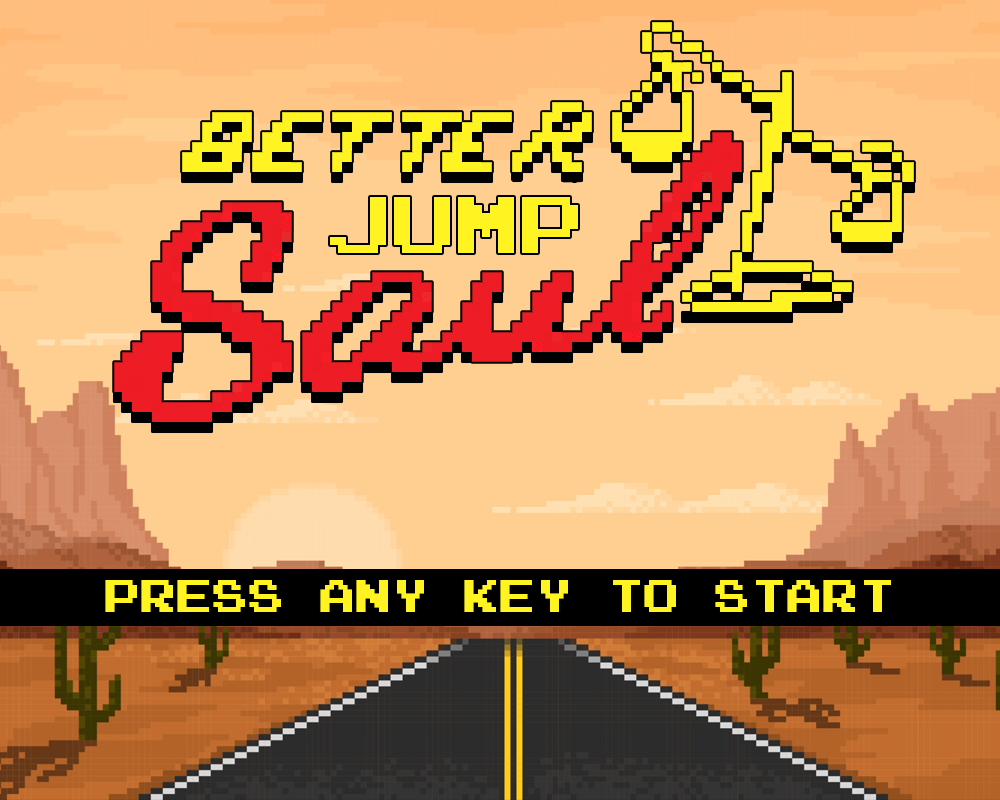
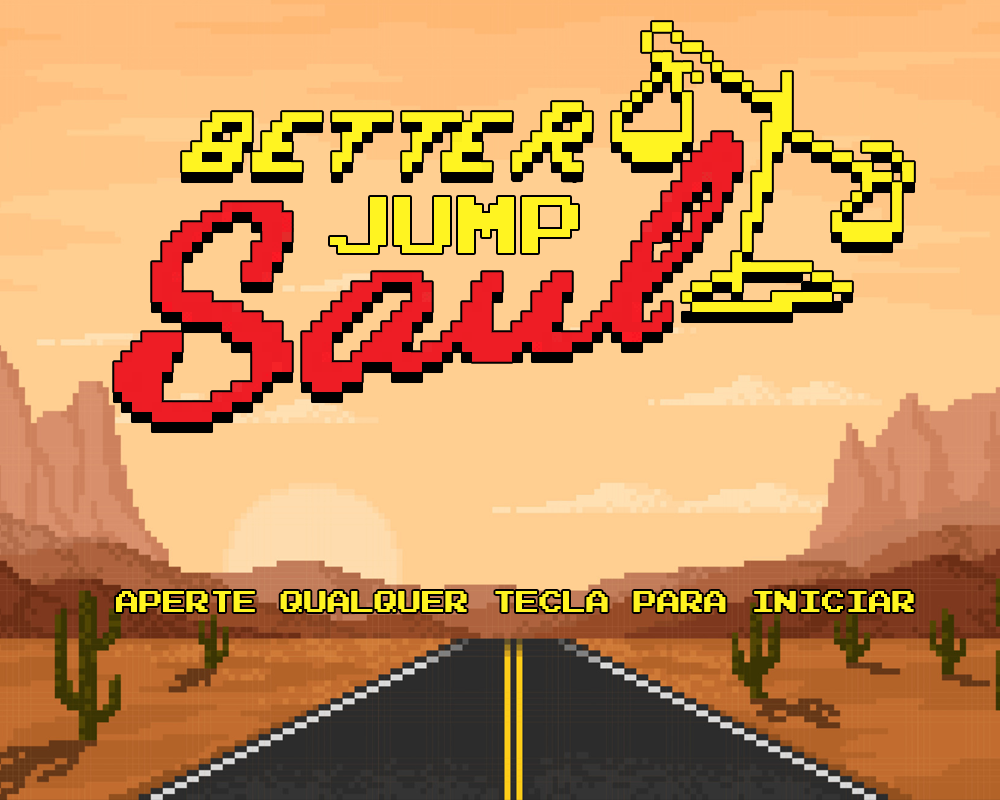
Traduções

Changed region(s): [[0.0, 0.6875, 1.0, 0.7812]]

diff --git a/ranking.py b/ranking.py
@@ -1,8 +1,6 @@
 import pygame
 import json
 import os
-from os.path import isfile,join
-from os import listdir
 class Ranking:
 
     def __init__(self, window):
@@ -28,7 +26,7 @@ class Ranking:
             else:
                 raise FileNotFoundError
         except FileNotFoundError:
-            print(f"File {filename} not found. The ranking will not be saved.")
+            print(f"Arquivo {filename} não encontrado. O ranking não será salvo.")
             return [] 
 
         ranking.append({"name": player_name, "time": total_time})

diff --git a/score.py b/score.py
@@ -52,7 +52,7 @@ class Score:
 
             pygame.draw.rect(self.window, color, input_box, 2)
 
-            prompt_text = font.render("INSERT YOUR NAME:", True, (255, 255, 255))
+            prompt_text = font.render("INSIRA SEU NOME:", True, (255, 255, 255))
             self.window.blit(prompt_text, (WIDTH // 2 - prompt_text.get_width() // 2, HEIGHT // 2 - 100))
 
             pygame.display.flip()
